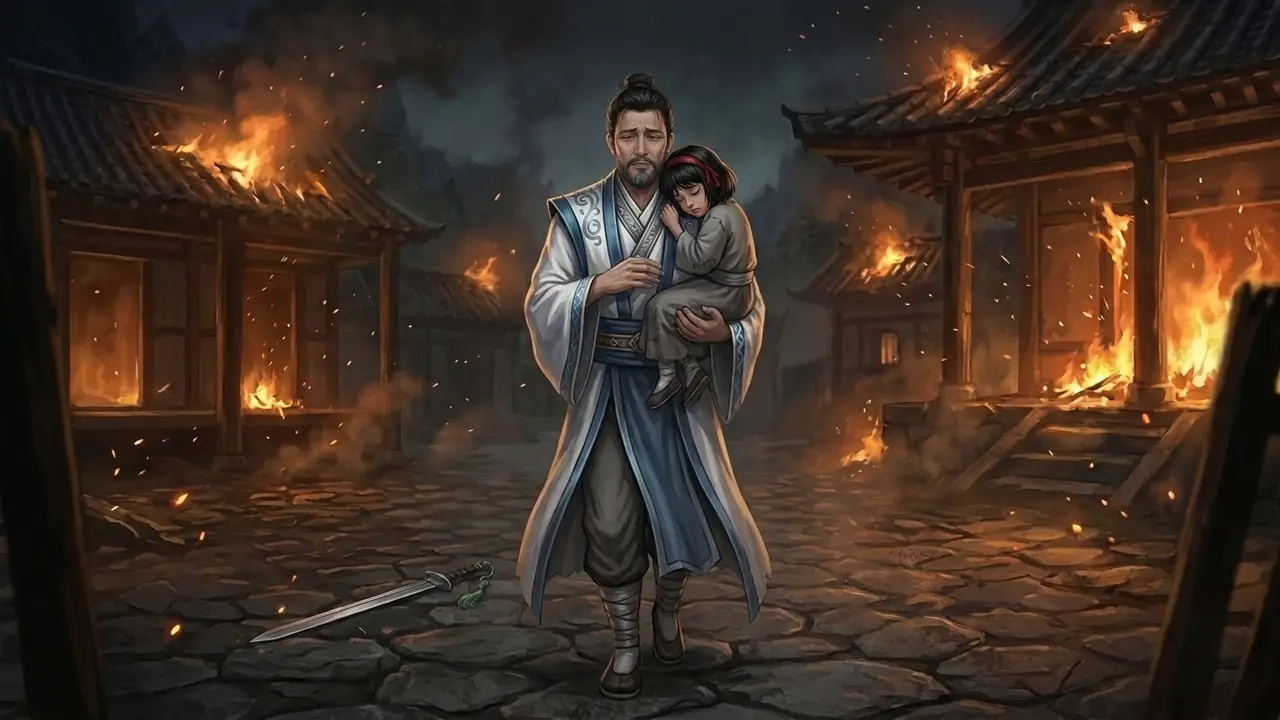
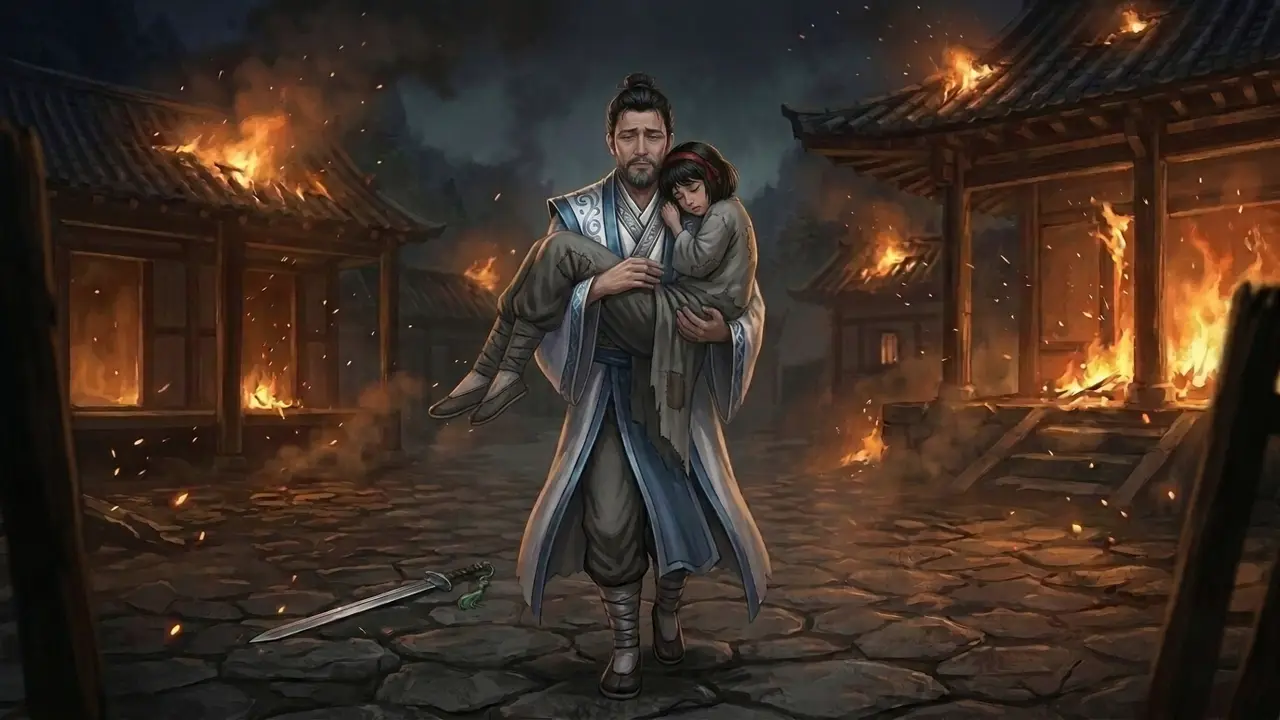
Fire stills at real scale: Jin at fourteen, Seo-yeon at nine, the Leader adult-sized
Repaints s2 (Come here, child) and s5 (carried out of the fire) so the kids
are child-sized next to the man, and gives the Leader a sorrowful face in s4.
s2's phone focus moves so Jin, Seo-yeon and his reaching hand stay in frame.
Same stills, same CREDITS row (s0a to s7c).

Claude-Session: https://claude.ai/code/session_01P4akAbQXAZGQB5xA6BG5Vv

Changed region(s): [[0.3438, 0.1833, 0.5938, 0.6722]]

diff --git a/game/js/ch1.js b/game/js/ch1.js
@@ -333,7 +333,7 @@
   // What a phone held upright keeps in frame (js/vn.js, focus), as a percentage across the still; the rest are
   // centred. Each c still shares its shot's focus, so the glitch cut only changes the person.
   const FOCUS = { m1: 40, m2: 45, m2b: 48, m2c: 48, m3: 34, m3a: 55, m3c: 55, k1: 52, k2: 70, k2b: 48, k2c: 66, k3: 70,
-    k3a: 47, k3c: 47, s0a: 39, s0b: 73, s2: 55, s3: 57, s6: 23, s7a: 79, s7c: 79, d1: 40, d1b: 45, d1c: 45, d2: 42, d3: 36 };
+    k3a: 47, k3c: 47, s0a: 39, s0b: 73, s2: 46, s3: 57, s6: 23, s7a: 79, s7c: 79, d1: 40, d1b: 45, d1c: 45, d2: 42, d3: 36 };
   // Freya comes to Mira in a dream (the Story Bible), so her kitchen shots play through a dream haze.
   const DREAM = ['m3', 'm3a', 'm3c'];
   SD.vn.addScenes(Object.fromEntries(Object.entries(STILL).map(([id, label]) => [id, { src: 'assets/img/vn/' + id + '.webp', label,
